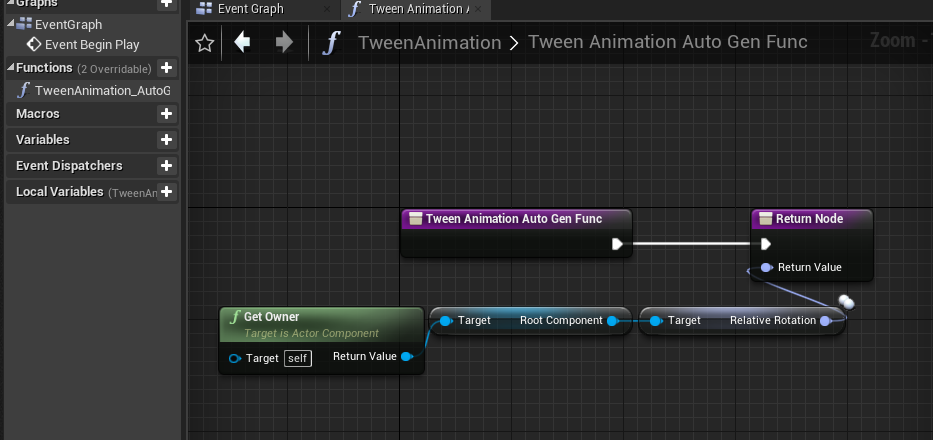
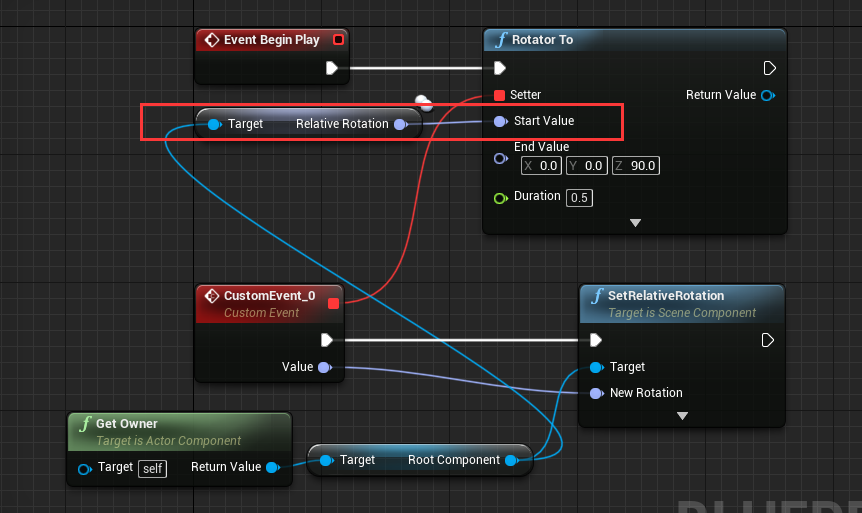
Add release notes 2.11.7. Change LTween custom function.

diff --git a/Manual/LTween/Custom/index.md b/Manual/LTween/Custom/index.md
@@ -15,31 +15,21 @@ Attach "TweenAnimation" component to cube:
 
 Drag out from "Event Begin Play" and add "Rotator To" node:
 ![](step4.png)
-See the parameter "Getter" and "Setter" of "Rotator To" node.
 
-#### 2. Setup node with Getter
-**"Getter" and "Setter" is LTween's delegate, LTween will use "Getter" to get start value, then calculate result value from start value and "End Value", and use "Setter" to pass the result value.**
+#### 2. Setup "Setter" parameters
+**"Setter" is LTween's delegate, LTween will calculate interpolated value from "Start Value" and "End Value", and use "Setter" to pass the interpolated value.**
 
-Drag out "Getter" and select "EventDispatchers"->"CreateEvent" (since unreal's event cannot have return value, we need to use a function instead):
+Drag out "Setter" and choose "Add Event"->"Add Custom Event", then a event with value of rotator type will be created:
 ![](step5.png)
 
-In "CreateEvent" node, choose "Create a matching function":
+Setup the "CustomEvent_0" like this:
 ![](step6.png)
 
-That will automatically create a function with return value. Change the function like this:
+#### 3. Setup other parameter
+Drag out "Root Component" and select "Get Relative Rotation", and connect to start value:
 ![](step7.png)
 
-Back to "Rotator To" node, drag out "Setter" and choose "Add Event"->"Add Custom Event", then a event with value of rotator type will be created:
+Set "End Value" to (0, 0, 90), "Duration" to 3.0, set delay to 1.0:
 ![](step8.png)
-
-Setup the "CustomEvent_0" like this:
-![](step9.png)
-
-#### 3. Setup node parameter
-Drag out "End Value" from "Rotator To" and choose "Make Rotator", change "Z(Yaw)" to 90:
-![](step10.png)
-
-Set "Duration" to 3.0, set delay to 1.0:
-![](step11.png)
 
 Now the setup is complete, hit play to see the animation.

diff --git a/Manual/ReleaseNotes/index.md b/Manual/ReleaseNotes/index.md
@@ -1,3 +1,21 @@
+## 2.11.7
+#### Fix:
+Fix bug: Click LGUI scene outliner menu cause deselect actor.  
+Fix bug: Drag root UIItem result in wrong AnchorOffset value.  
+Fix LTween ease animation error: InOutElastic, InOutBack, InBounce, InOutBounce.  
+#### Modify:
+Remove LGUIEditHelper.  
+Add more blueprint function for LGUIPlayTween.  
+Editor detail appearance change: display thumbnail = false.  
+Rename text animation related objects. Previours names are easily missunderstanding.  
+These class move to namespace "LGUIPrefabSystem": ActorSerializer, ActorCopier, ActorReplaceTool.  
+Make LTween blueprint functions easier: FloatTo, IntTo, VectorTo, ColorTo...  
+Cleanup editor code. Check [this doc](../LTween/Custom/index.md).  
+#### NewFeature:
+Auto refresh UI when: reimport sprite texture; change border value.  
+Support "Num Customized UVs" in hud material.  
+Add image sequence player for easily play image sequence, 2 new component: UISpriteSequencePlayer, UISpriteSheetTexturePlayer.  
+Add copy/paste on custom editor. Now we can copy/paste anchor of LGUITransform.  
 ## 2.11.6
 #### Fix:
 Fix a crash caused by RangeSelector and RichTextTagSelector when check flipDirection.
